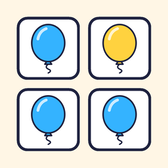
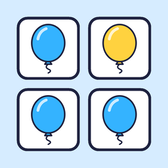
Badaba Odd One Out: new version text, blue screenshots, privacy update
The game card now describes the 60 levels, the find-the-twin and
find-all tasks and the new memory game, with screenshots of the blue
redesign. The privacy policy (EN, TR, ES, FR) lists the two new kinds of
progress kept in the browser: a best score per timed start and stars per
memory board; effective date 2026-11-18.

diff --git a/index.html b/index.html
@@ -308,7 +308,7 @@ footer a { color: var(--muted); }
       <article class="panel game" id="odd-one-out">
         <figure class="preview">
           <div class="phone">
-            <img src="img/odd-one-out-level30.webp" alt="" width="360" height="640">
+            <img src="img/odd-one-out-hard.webp" alt="" width="360" height="640">
           </div>
         </figure>
         <div class="info">
@@ -319,18 +319,19 @@ footer a { color: var(--muted); }
               <span class="badge" data-i18n="odd_badge">New · free in your browser</span>
             </div>
           </div>
-          <p class="muted" style="margin: 0" data-i18n="odd_text">Find the picture that is different! Grids grow from 3×3 to 6×6 across 36 levels, with a race against the clock and a calm mode for the youngest. There are no words on screen, so little ones can play before they can read.</p>
+          <p class="muted" style="margin: 0" data-i18n="odd_text">Find the picture that is different, its exact twin, or every odd one! 60 levels grow from 3×3 to 6×6 and end with tiny details, plus a race against the clock, a card-flip memory game and a calm mode for the youngest. There are no words on screen, so little ones can play before they can read.</p>
           <ul class="chips">
             <li data-i18n="chip_ads">No ads</li>
             <li data-i18n="chip_iap">No in-app purchases</li>
             <li data-i18n="odd_chip_words">No reading needed</li>
-            <li data-i18n="odd_chip_levels">36 levels</li>
+            <li data-i18n="odd_chip_levels">60 levels</li>
+            <li data-i18n="odd_chip_memory">Memory game</li>
           </ul>
           <p style="margin: 0"><a class="btn gold" href="https://badaba-odd-one-out.web.app/" rel="noopener"><svg viewBox="0 0 24 24" fill="currentColor" aria-hidden="true"><path d="M8 5.5v13l10.5-6.5z"></path></svg><span data-i18n="cta_preview">Play in your browser</span></a></p>
           <div class="thumbs">
-            <img src="img/odd-one-out-menu.webp" alt="" width="360" height="640" loading="lazy">
-            <img src="img/odd-one-out-level.webp" alt="" width="360" height="640" loading="lazy">
-            <img src="img/odd-one-out-arcade.webp" alt="" width="360" height="640" loading="lazy">
+            <img src="img/odd-one-out-home.webp" alt="" width="360" height="640" loading="lazy">
+            <img src="img/odd-one-out-match.webp" alt="" width="360" height="640" loading="lazy">
+            <img src="img/odd-one-out-memory.webp" alt="" width="360" height="640" loading="lazy">
           </div>
           <p class="small muted"><span data-i18n="privacy_label">Privacy policy:</span> <a href="odd-one-out/privacy/en.html" lang="en">EN</a> · <a href="odd-one-out/privacy/tr.html" lang="tr">TR</a> · <a href="odd-one-out/privacy/es.html" lang="es">ES</a> · <a href="odd-one-out/privacy/fr.html" lang="fr">FR</a></p>
         </div>
@@ -398,8 +399,8 @@ var TEXT = {
     game_title: "Coin Kitty: Merge & Save", game_badge: "Coming soon on Google Play",
     game_text: "Drop coins into a cat jar, merge equal ones and save up to the Golden Cat! A new Daily Jar goal every day, a wardrobe for the hero and his dreams from a bike to a private island.",
     chip_ads: "No ads", chip_iap: "No in-app purchases", chip_offline: "Plays offline", privacy_label: "Privacy policy:",
-    odd_title: "Badaba Odd One Out", odd_badge: "New · free in your browser", odd_chip_words: "No reading needed", odd_chip_levels: "36 levels",
-    odd_text: "Find the picture that is different! Grids grow from 3×3 to 6×6 across 36 levels, with a race against the clock and a calm mode for the youngest. There are no words on screen, so little ones can play before they can read.",
+    odd_title: "Badaba Odd One Out", odd_badge: "New · free in your browser", odd_chip_words: "No reading needed", odd_chip_levels: "60 levels", odd_chip_memory: "Memory game",
+    odd_text: "Find the picture that is different, its exact twin, or every odd one! 60 levels grow from 3×3 to 6×6 and end with tiny details, plus a race against the clock, a card-flip memory game and a calm mode for the youngest. There are no words on screen, so little ones can play before they can read.",
     shot_menu: "Coin Kitty main menu", shot_game: "Coin Kitty during a game", shot_room: "Coin Kitty: the hero's world",
     shorts_title: "Find the odd one out",
     shorts_text: "Wordless puzzles for little ones on Badaba (@badabakids). Tap a Short to play it here.",
@@ -421,8 +422,8 @@ var TEXT = {
     game_title: "Kumbara Kedi: Para Birleştir", game_badge: "Yakında Google Play'de",
     game_text: "Paraları kedi kumbaraya at, eşleri birleştir, Altın Kedi'ye kadar biriktir! Her gün yeni bir Günlük Kumbara hedefi, kahraman için bir gardırop ve bisikletten özel adaya uzanan hayaller.",
     chip_ads: "Reklam yok", chip_iap: "Uygulama içi satın alma yok", chip_offline: "Çevrimdışı oynanır", privacy_label: "Gizlilik politikası:",
-    odd_title: "Badaba Farklı Olanı Bul", odd_badge: "Yeni · tarayıcıda ücretsiz", odd_chip_words: "Okuma gerekmez", odd_chip_levels: "36 seviye",
-    odd_text: "Farklı olan resmi bul! 36 seviyede ızgara 3×3'ten 6×6'ya büyür; ayrıca saate karşı bir yarış ve en küçükler için sakin bir mod var. Ekranda hiç yazı yok, okuma bilmeyen çocuklar da oynayabilir.",
+    odd_title: "Badaba Farklı Olanı Bul", odd_badge: "Yeni · tarayıcıda ücretsiz", odd_chip_words: "Okuma gerekmez", odd_chip_levels: "60 seviye", odd_chip_memory: "Hafıza oyunu",
+    odd_text: "Farklı olanı, tıpatıp eşini ya da hepsini bul! 60 seviye 3×3'ten 6×6'ya büyür ve minik ayrıntılarla biter; ayrıca saate karşı bir yarış, kartları çevirmeli bir hafıza oyunu ve en küçükler için sakin bir mod var. Ekranda hiç yazı yok, okuma bilmeyen çocuklar da oynayabilir.",
     shot_menu: "Kumbara Kedi ana menü", shot_game: "Kumbara Kedi oyun sırasında", shot_room: "Kumbara Kedi: kahramanın dünyası",
     shorts_title: "Farklı olanı bul",
     shorts_text: "Badaba'da (@badabakids) küçükler için sözsüz bulmacalar. Burada oynatmak için bir Short'a dokunun.",
@@ -444,8 +445,8 @@ var TEXT = {
     game_title: "Coin Kitty: Fusiona monedas", game_badge: "Próximamente en Google Play",
     game_text: "¡Suelta monedas en una hucha gatuna, fusiona las iguales y ahorra hasta el Gato dorado! Un nuevo reto de la Hucha diaria cada día, un armario para el protagonista y sus sueños, de una bici a una isla privada.",
     chip_ads: "Sin anuncios", chip_iap: "Sin compras en la app", chip_offline: "Funciona sin conexión", privacy_label: "Política de privacidad:",
-    odd_title: "Badaba Odd One Out", odd_badge: "Nuevo · gratis en el navegador", odd_chip_words: "No hace falta leer", odd_chip_levels: "36 niveles",
-    odd_text: "¡Encuentra el dibujo diferente! Las cuadrículas crecen de 3×3 a 6×6 en 36 niveles, con una carrera contra el reloj y un modo tranquilo para los más pequeños. No hay palabras en pantalla, así que se puede jugar antes de saber leer.",
+    odd_title: "Badaba Odd One Out", odd_badge: "Nuevo · gratis en el navegador", odd_chip_words: "No hace falta leer", odd_chip_levels: "60 niveles", odd_chip_memory: "Juego de memoria",
+    odd_text: "¡Encuentra el dibujo diferente, su gemelo exacto o todos los distintos! 60 niveles crecen de 3×3 a 6×6 y terminan con detalles diminutos, además de una carrera contra el reloj, un juego de memoria con cartas y un modo tranquilo para los más pequeños. No hay palabras en pantalla, así que se puede jugar antes de saber leer.",
     shot_menu: "Menú principal de Coin Kitty", shot_game: "Coin Kitty durante una partida", shot_room: "Coin Kitty: el mundo del protagonista",
     shorts_title: "Encuentra el diferente",
     shorts_text: "Acertijos sin palabras para los más pequeños en Badaba (@badabakids). Toca un Short para verlo aquí.",
@@ -467,8 +468,8 @@ var TEXT = {
     game_title: "Coin Kitty : Chat-tirelire", game_badge: "Bientôt sur Google Play",
     game_text: "Lâche des pièces dans la tirelire chat, fusionne les pièces identiques et économise jusqu'au Chat doré ! Un nouvel objectif de la Tirelire du jour chaque jour, une garde-robe pour le héros et ses rêves, du vélo à l'île privée.",
     chip_ads: "Sans publicité", chip_iap: "Sans achats intégrés", chip_offline: "Se joue hors ligne", privacy_label: "Politique de confidentialité :",
-    odd_title: "Badaba Odd One Out", odd_badge: "Nouveau · gratuit dans le navigateur", odd_chip_words: "Pas besoin de lire", odd_chip_levels: "36 niveaux",
-    odd_text: "Trouve l'image différente ! Les grilles passent de 3×3 à 6×6 sur 36 niveaux, avec une course contre la montre et un mode calme pour les plus petits. Aucun mot à l'écran : on peut jouer avant de savoir lire.",
+    odd_title: "Badaba Odd One Out", odd_badge: "Nouveau · gratuit dans le navigateur", odd_chip_words: "Pas besoin de lire", odd_chip_levels: "60 niveaux", odd_chip_memory: "Jeu de mémoire",
+    odd_text: "Trouve l'image différente, sa jumelle exacte ou toutes les intruses ! 60 niveaux passent de 3×3 à 6×6 et finissent par de minuscules détails, avec une course contre la montre, un jeu de mémoire à cartes retournées et un mode calme pour les plus petits. Aucun mot à l'écran : on peut jouer avant de savoir lire.",
     shot_menu: "Menu principal de Coin Kitty", shot_game: "Coin Kitty pendant une partie", shot_room: "Coin Kitty : le monde du héros",
     shorts_title: "Trouve l'intrus",
     shorts_text: "Des énigmes sans paroles pour les petits sur Badaba (@badabakids). Touchez un Short pour le voir ici.",

diff --git a/odd-one-out/privacy/fr.html b/odd-one-out/privacy/fr.html
@@ -59,7 +59,7 @@ footer { text-align: center; color: var(--muted); font-size: 14px; padding: 0 20
 <article>
 <h1>Politique de confidentialité</h1>
 <p><strong>Jeu :</strong> Badaba Odd One Out (Badaba Farklı Olanı Bul en turc), qui se joue dans le navigateur sur <a href="https://badaba-odd-one-out.web.app/">badaba-odd-one-out.web.app</a></p>
-<p><strong>Date d'entrée en vigueur :</strong> 17 novembre 2026 (2026-11-17)</p>
+<p><strong>Date d'entrée en vigueur :</strong> 18 novembre 2026 (2026-11-18)</p>
 <p>Cette politique explique comment le jeu (le « jeu », « nous ») traite les informations. En bref : le jeu ne collecte aucune donnée personnelle, auprès de personne. Il n'a ni compte, ni publicité, ni mesure d'audience, ni cookies, ni achats, ni chat, ni liens qui sortent du jeu.</p>
 <h2>1. Informations que nous collectons</h2>
 <p>Aucune. Le jeu ne demande jamais de nom, d'adresse e-mail, de position ni aucune autre information personnelle, il n'a aucun endroit où saisir du texte et il ne crée aucun identifiant publicitaire ni autre identifiant.</p>
@@ -67,7 +67,8 @@ footer { text-align: center; color: var(--muted); font-size: 14px; padding: 0 20
 <p>Pour garder ta progression, le jeu enregistre un petit fichier dans le stockage de ton navigateur pour ce site, uniquement sur ton appareil. Il contient :</p>
 <ul>
 <li>les étoiles gagnées à chaque niveau, et donc les niveaux ouverts,</li>
-<li>ton meilleur score dans le mode chronométré et le nombre d'images trouvées dans le mode calme,</li>
+<li>ton meilleur score pour chaque départ du mode chronométré et le nombre d'images trouvées dans le mode calme,</li>
+<li>les étoiles gagnées sur chaque plateau de mémoire,</li>
 <li>si le son est activé.</li>
 </ul>
 <p>Ce fichier n'est jamais envoyé nulle part et nous ne pouvons pas le voir. Effacer les données de ce site dans ton navigateur le supprime et remet ta progression à zéro.</p>

diff --git a/odd-one-out/privacy/es.html b/odd-one-out/privacy/es.html
@@ -59,7 +59,7 @@ footer { text-align: center; color: var(--muted); font-size: 14px; padding: 0 20
 <article>
 <h1>Política de privacidad</h1>
 <p><strong>Juego:</strong> Badaba Odd One Out (Badaba Farklı Olanı Bul en turco), que se juega en el navegador en <a href="https://badaba-odd-one-out.web.app/">badaba-odd-one-out.web.app</a></p>
-<p><strong>Fecha de entrada en vigor:</strong> 17 de noviembre de 2026 (2026-11-17)</p>
+<p><strong>Fecha de entrada en vigor:</strong> 18 de noviembre de 2026 (2026-11-18)</p>
 <p>Esta política explica cómo el juego (el "juego", "nosotros") trata la información. En resumen: el juego no recoge datos personales de nadie. No tiene cuentas, anuncios, analítica, cookies, compras, chat ni enlaces que salgan del juego.</p>
 <h2>1. Información que recogemos</h2>
 <p>Ninguna. El juego nunca pide un nombre, una dirección de correo, la ubicación ni ningún otro dato personal, no tiene ningún lugar para escribir texto y no crea ningún identificador publicitario ni de otro tipo.</p>
@@ -67,7 +67,8 @@ footer { text-align: center; color: var(--muted); font-size: 14px; padding: 0 20
 <p>Para conservar tu progreso, el juego guarda un pequeño archivo en el almacenamiento de tu navegador para este sitio web, solo en tu dispositivo. Contiene:</p>
 <ul>
 <li>las estrellas que has ganado en cada nivel y, por tanto, qué niveles están abiertos,</li>
-<li>tu mejor puntuación en el modo con tiempo y cuántos dibujos has encontrado en el modo tranquilo,</li>
+<li>tu mejor puntuación en cada inicio del modo con tiempo y cuántos dibujos has encontrado en el modo tranquilo,</li>
+<li>las estrellas que has ganado en cada tablero de memoria,</li>
 <li>si el sonido está activado.</li>
 </ul>
 <p>Este archivo nunca se envía a ningún sitio y nosotros no podemos verlo. Al borrar los datos de este sitio web en tu navegador se elimina y tu progreso vuelve a empezar.</p>

diff --git a/odd-one-out/privacy/tr.html b/odd-one-out/privacy/tr.html
@@ -59,7 +59,7 @@ footer { text-align: center; color: var(--muted); font-size: 14px; padding: 0 20
 <article>
 <h1>Gizlilik Politikası</h1>
 <p><strong>Oyun:</strong> Badaba Farklı Olanı Bul (diğer dillerde Badaba Odd One Out), web tarayıcısında <a href="https://badaba-odd-one-out.web.app/">badaba-odd-one-out.web.app</a> adresinde oynanır</p>
-<p><strong>Yürürlük tarihi:</strong> 17 Kasım 2026 (2026-11-17)</p>
+<p><strong>Yürürlük tarihi:</strong> 18 Kasım 2026 (2026-11-18)</p>
 <p>Bu politika, oyunun ("oyun", "biz") bilgileri nasıl ele aldığını açıklar. Kısaca: oyun hiç kimseden kişisel veri toplamaz. Hesap, reklam, analiz, çerez, satın alma, sohbet ve oyunun dışına çıkan bağlantı yoktur.</p>
 <h2>1. Topladığımız bilgiler</h2>
 <p>Hiçbiri. Oyun ad, e-posta adresi, konum ya da başka bir kişisel bilgi istemez, yazı yazılacak bir alanı yoktur ve senin için reklam kimliği ya da başka bir tanımlayıcı oluşturmaz.</p>
@@ -67,7 +67,8 @@ footer { text-align: center; color: var(--muted); font-size: 14px; padding: 0 20
 <p>İlerlemeni korumak için oyun, tarayıcının bu web sitesine ayırdığı depolama alanına, yalnızca senin cihazında küçük bir dosya kaydeder. İçinde şunlar vardır:</p>
 <ul>
 <li>her seviyede kazandığın yıldızlar ve buna göre hangi seviyelerin açık olduğu,</li>
-<li>süreli moddaki en iyi skorun ve sakin modda bulduğun resim sayısı,</li>
+<li>süreli modun her başlangıcındaki en iyi skorun ve sakin modda bulduğun resim sayısı,</li>
+<li>her hafıza tahtasında kazandığın yıldızlar,</li>
 <li>sesin açık olup olmadığı.</li>
 </ul>
 <p>Bu dosya hiçbir yere gönderilmez ve biz onu göremeyiz. Tarayıcında bu web sitesinin verilerini temizlemek dosyayı siler ve ilerlemeni sıfırlar.</p>

diff --git a/odd-one-out/privacy/en.html b/odd-one-out/privacy/en.html
@@ -59,7 +59,7 @@ footer { text-align: center; color: var(--muted); font-size: 14px; padding: 0 20
 <article>
 <h1>Privacy Policy</h1>
 <p><strong>Game:</strong> Badaba Odd One Out (Badaba Farklı Olanı Bul in Turkish), played in a web browser at <a href="https://badaba-odd-one-out.web.app/">badaba-odd-one-out.web.app</a></p>
-<p><strong>Effective date:</strong> 17 November 2026 (2026-11-17)</p>
+<p><strong>Effective date:</strong> 18 November 2026 (2026-11-18)</p>
 <p>This policy explains how the game (the "game", "we", "us") handles information. The short version: the game collects no personal data from anyone. It has no account, no ads, no analytics, no cookies, no purchases, no chat and no links that lead out of the game.</p>
 <h2>1. Information we collect</h2>
 <p>None. The game never asks for a name, email address, location or any other personal information, it has no place to type text, and it creates no advertising ID or other identifier for you.</p>
@@ -67,7 +67,8 @@ footer { text-align: center; color: var(--muted); font-size: 14px; padding: 0 20
 <p>To keep your progress, the game saves a small file in your browser's storage for this website, on your device only. It contains:</p>
 <ul>
 <li>the stars you earned in each level, and so which levels are open,</li>
-<li>your best score in the timed mode and how many pictures you found in the calm mode,</li>
+<li>your best score for each start of the timed mode and how many pictures you found in the calm mode,</li>
+<li>the stars you earned on each memory board,</li>
 <li>whether the sound is on.</li>
 </ul>
 <p>This file is never sent anywhere, and we cannot see it. Clearing this website's data in your browser deletes it and resets your progress.</p>
